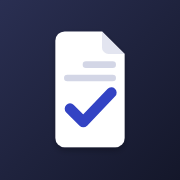
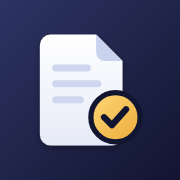
الإصدار 2.21.5: أيقونة جديدة للتطبيق: ورقة الكشف والختم الذهبي على كحلي

Changed region(s): [[0.1944, 0.1667, 0.7778, 0.8333]]

diff --git a/sw.js b/sw.js
@@ -1,6 +1,6 @@
 // Service Worker: يخزّن كل ملفات التطبيق ليعمل بدون إنترنت (cache-first بنسخة ثابتة).
 // CACHE_VERSION وقائمة الملفات يكتبهما سكربت البناء scripts/build-web.mjs.
-const CACHE_VERSION = 'cc514c99b834';
+const CACHE_VERSION = '7a2aa5e53734';
 const CACHE = 'grades-' + CACHE_VERSION;
 const PRECACHE = ["./","./app.css","./app.js","./changelog.js","./cloud.js","./config.js","./fonts/IBM-PLEX-LICENSE.txt","./fonts/cairo-arabic-400-normal.woff2","./fonts/cairo-arabic-600-normal.woff2","./fonts/cairo-arabic-800-normal.woff2","./fonts/cairo-latin-400-normal.woff2","./fonts/cairo-latin-600-normal.woff2","./fonts/cairo-latin-800-normal.woff2","./fonts/ibm-plex-arabic-400.ttf","./fonts/ibm-plex-arabic-600.ttf","./fonts/ibm-plex-arabic-700.ttf","./grades-core.js","./i18n-en.js","./i18n.js","./icons/apple-touch-icon.png","./icons/favicon.svg","./icons/icon-192.png","./icons/icon-512.png","./icons/maskable-512.png","./importers.js","./index.html","./lesson-plans.js","./live.js","./manifest.webmanifest","./platform.js","./reminders.js","./reports.js","./school.js","./store.js","./transfer.js","./ui.js","./vendor/fflate.min.js","./vendor/jsQR.js","./vendor/jszip.min.js","./vendor/pdfjs/pdf.min.mjs","./vendor/pdfjs/pdf.worker.min.mjs","./vendor/qrcode.js","./vendor/tesseract/LICENSE.txt","./vendor/tesseract/core/tesseract-core-lstm.wasm.js","./vendor/tesseract/core/tesseract-core-simd-lstm.wasm.js","./vendor/tesseract/lang/ara.traineddata.gz","./vendor/tesseract/tesseract.min.js","./vendor/tesseract/worker.min.js","./view.css","./view.html","./view.js","./view.webmanifest","./xlsx-export.js"];
 

diff --git a/changelog.js b/changelog.js
@@ -1,6 +1,13 @@
 // «ما الجديد» — يكتبه scripts/bump-version.mjs تلقائيًا (أحدث إصدار أولًا)
 export const CHANGELOG = [
   {
+    "version": "2.21.5",
+    "date": "2026-10-19",
+    "items": [
+      "أيقونة جديدة للتطبيق: ورقة الكشف والختم الذهبي على كحلي"
+    ]
+  },
+  {
     "version": "2.21.4",
     "date": "2026-10-19",
     "items": [
@@ -203,14 +210,6 @@ export const CHANGELOG = [
     "date": "2026-10-15",
     "items": [
       "الكمبيوتر: الجدول بطول الشاشة بتمرير واحد، وكل الأدوات (الأسابيع، التاريخ والدرس، التعبئة السريعة، العرض، Excel، الطلاب، النقل، الملخص) في عمود ثابت على اليسار"
-    ]
-  },
-  {
-    "version": "2.7.4",
-    "date": "2026-10-15",
-    "items": [
-      "اتصال أسرع وأثبت بالكمبيوتر: لا تحديث تلقائي أثناء الربط، وانتظار أقل",
-      "إذا تأخر الاتصال يظهر للمعلم ماذا يفعل"
     ]
   }
 ];

diff --git a/i18n-en.js b/i18n-en.js
@@ -117,6 +117,7 @@ export default {
   "أي صف تريد حذفه؟": "Which class do you want to delete?",
   "أيقونات بلا إطار، والشريط السفلي يتلوّن فقط": "Icons without frames; the bottom bar only changes color",
   "أيقونة تطبيق جديدة": "New app icon",
+  "أيقونة جديدة للتطبيق: ورقة الكشف والختم الذهبي على كحلي": "New app icon: the grade sheet with a gold seal on navy",
   "أين تُحفظ النسخة؟": "Where is the backup saved?",
   "أُرسل للكمبيوتر ✓": "Sent to the computer ✓",
   "أُضيف": "Added",

diff --git a/config.js b/config.js
@@ -4,7 +4,7 @@
 
 export const CONFIG = {
   appName: 'متابعة الدرجات',
-  version: '2.21.4',
+  version: '2.21.5',
   releaseDate: '2026-10-19',
 
   // قواعد الدرجات
